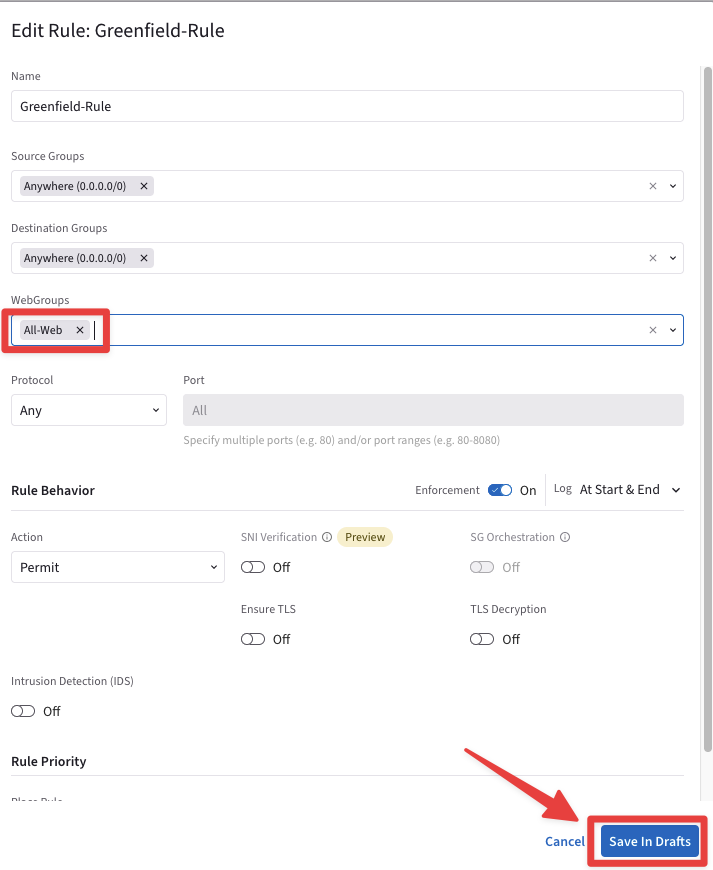
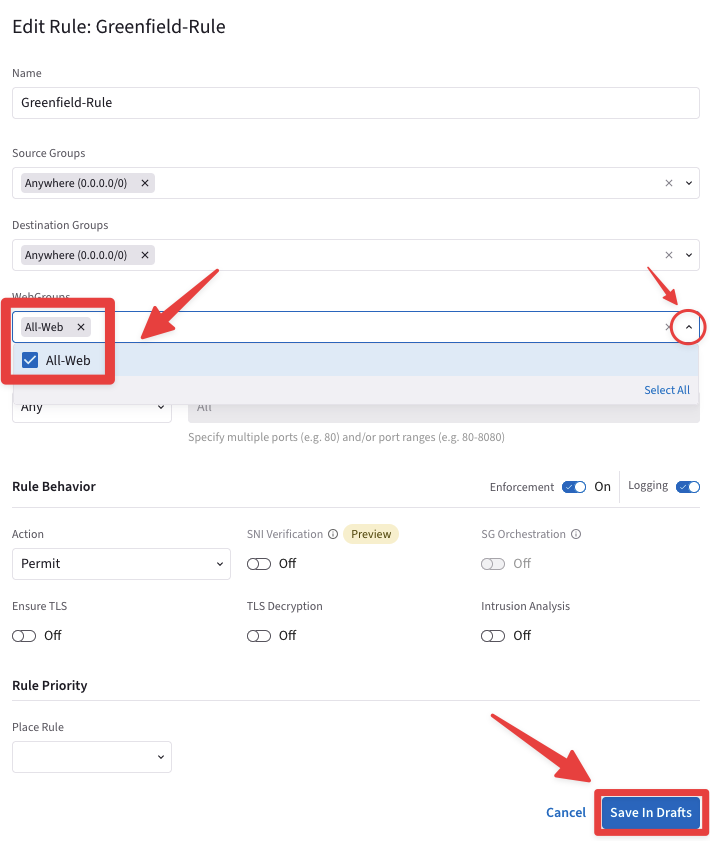
update for ops

diff --git a/ace_ops/docs/lab7-egress.md b/ace_ops/docs/lab7-egress.md
@@ -38,7 +38,7 @@ Even though the two virtual machines are deployed in private subnets, they can s
 When `Local Egress` is enabled, **SNAT** is automatically turned on. As a result, all outbound traffic from the Spoke VPC/VNet is translated to use the gateway’s public IP address. In addition, the VPC/VNet’s default route (**0.0.0.0/0**) is updated to point to the Spoke gateway.
 ```
 
-- Navigate to **CoPilot > Security > Egress > Egress VPC/VNets**. You’ll see that both **_ace-azure-east-us-spoke1_** and **_ace-azure-east-us-spoke2_** VNets are already configured with Local Egress enabled.
+- Navigate to **CoPilot > Security > Egress > Egress VPC/VNets**. You’ll see that both **_ace-azure-east-us-spoke1_** and **_ace-azure-east-us-spoke2_** VNets are already configured with _Local Egress_ enabled.
 
 ```{figure} images/lab7-newgatus03.png
 ---
@@ -49,7 +49,7 @@ Cloud Secure Egress
 ```
 
 ```{important}
-This action installs a default route in every private route table within the Azure spoke VNets. These default routes point to the Aviatrix Spoke Gateway(s).
+This action adds a **default route** to each private route table in the Azure spoke VNets. The routes direct traffic to the Aviatrix Spoke Gateways.
 
 To verify, go to **CoPilot > Cloud Fabric > Gateways > Spoke Gateways**, select a spoke gateway (for example, ace-azure-east-us-spoke2), then open the `VPC/VNet Route Tables` tab. From the Route Table drop-down, select any private route table.
 ```{figure} images/lab7-defaultroute.png
@@ -122,7 +122,7 @@ Enter the following parameters:
 - **Source Smartgroups**: <span style='color:#479608'>Anywhere(0.0.0.0/0)</span>
 - **Destination Smartgroups**: <span style='color:#479608'>Anywhere(0.0.0.0/0)</span>
 - **Protocol**: <span style='color:#479608'>Any</span>
-- **Log**: <span style='color:#479608'>**At Start & End**</span>
+- **Logging**: <span style='color:#479608'>**On**</span>
 - **Action**: <span style='color:#479608'>Permit</span>
 
 Do not forget to click on **Save In Drafts**.
@@ -309,9 +309,20 @@ Commit
 
 #### 2.2.2 Egress - Analyze section
 
+Now that the Distributed Cloud Firewall is enabled, we can gather useful insights from the Egress section. Navigate to **Security > Egress > Analyze**, and in `Top Domains`, identify the domains that are being blocked.
+
+```{figure} images/lab7-green02aa.png
+---
+align: center
+---
+Analyze
+```
+
 ### 2.3 DCF Rules
 
-The following two DCF rules allow SSH traffic from the BU1 Frontend to both the **BU1-DB** and **BU2-DB**.
+Let’s add two more rules to permit SSH traffic from the **BU1 Frontend** to the DB VMs.
+
+Navigate to **Security > Distributed Cloud Firewall**, then click `"+ Rule"`.
 
 Ensure these parameters are entered in the pop-up window `"Create New Rule"`:
 
@@ -370,15 +381,15 @@ Commit
 ```
 
 ```{caution}
-Once again, the last two policies enable secure SSH access from the BU1 Frontend to the Azure database VMs hosted in private subnets. Because these VMs have no public IP addresses, direct SSH access from your laptop is not possible..
+Once again, the last two policies enable secure SSH access from the BU1 Frontend to the Azure database VMs hosted in private subnets. Because these VMs have no public IP addresses, direct SSH access from your laptop is not possible.
 ```
 
 ### 2.4 ZTNA
 
 Now let’s enable the `Zero Trust` control by creating an explicit deny rule, which must be placed above the greenfield rule.
 
-```{tip}
-Navigate to **CoPilot > Security > Distributed Cloud Firewall > Policies**. 
+```{important}
+**Zero trust** in networking is a security approach that “trusts no one by default,” whether inside or outside the network perimeter. Instead of assuming that users or devices inside the network are trustworthy, it requires strict verification for every access attempt and continuous evaluation of risk.
 ```
 
 - Clicking the `"+ Rule"` button.
